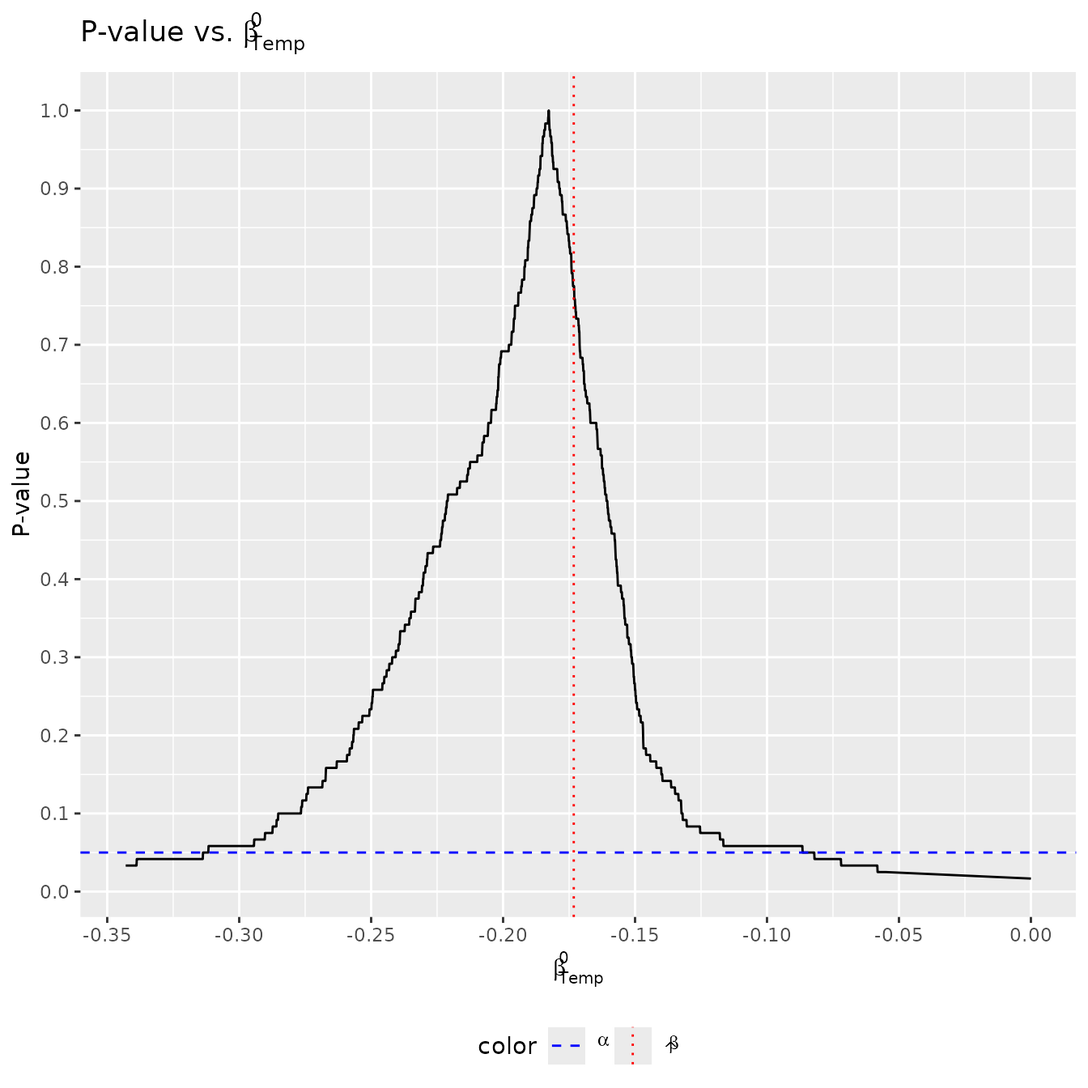
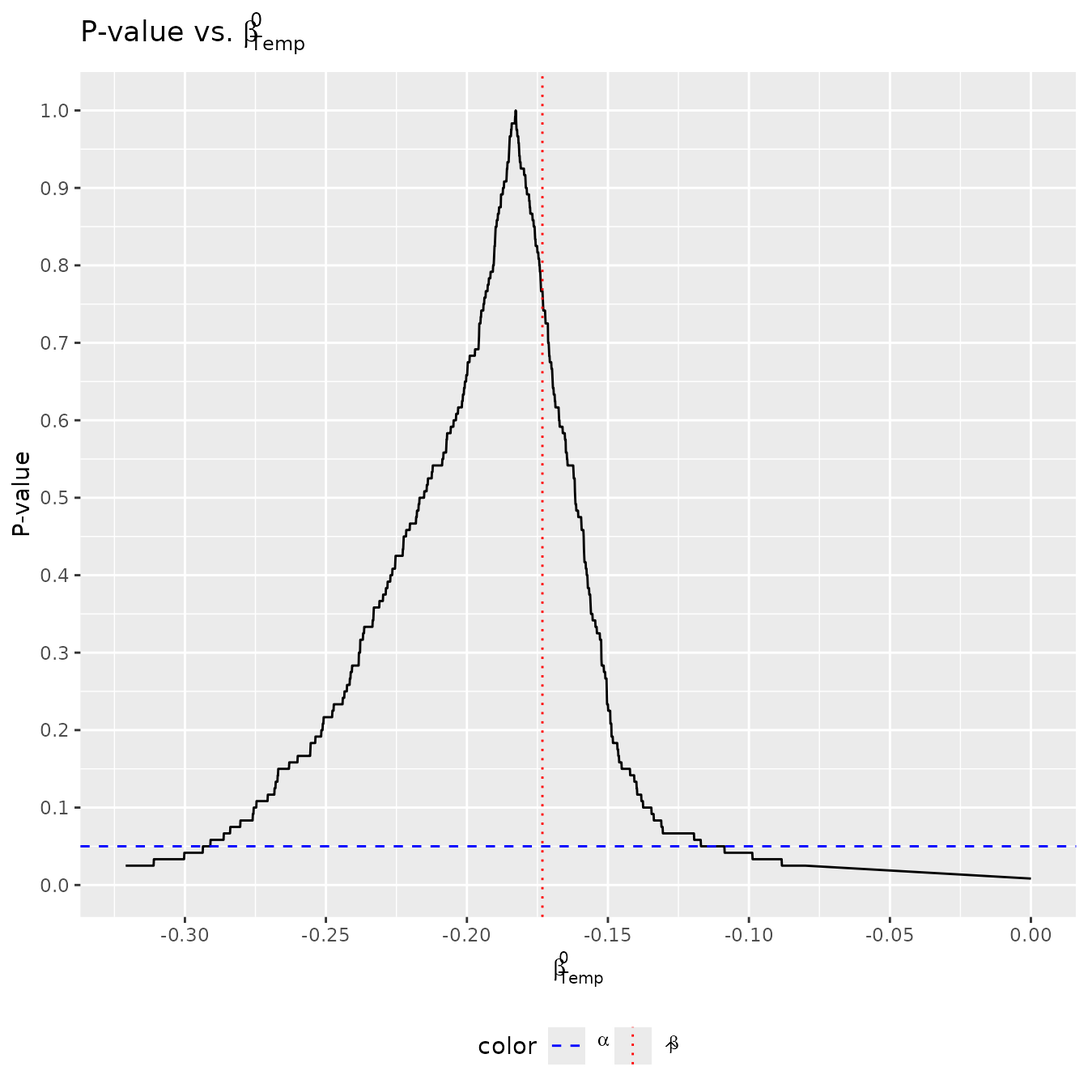
Deploying to gh-pages from @ ian-xu-economics/exactt@83dd52ce7efb5f00a57cc995b3be33a9e709e254 🚀

diff --git a/README.knit.html b/README.knit.html
@@ -1,0 +1,239 @@
+<!DOCTYPE html>
+<!-- Generated by pkgdown: do not edit by hand --><html lang="en"><head><meta http-equiv="Content-Type" content="text/html; charset=UTF-8"><meta charset="utf-8"><meta http-equiv="X-UA-Compatible" content="IE=edge"><meta name="viewport" content="width=device-width, initial-scale=1.0"><title>exactt  • exactt</title><!-- jquery --><script src="https://cdnjs.cloudflare.com/ajax/libs/jquery/3.7.1/jquery.min.js" integrity="sha512-v2CJ7UaYy4JwqLDIrZUI/4hqeoQieOmAZNXBeQyjo21dadnwR+8ZaIJVT8EE2iyI61OV8e6M8PP2/4hpQINQ/g==" crossorigin="anonymous" referrerpolicy="no-referrer"></script><!-- Bootstrap --><link rel="stylesheet" href="https://cdnjs.cloudflare.com/ajax/libs/twitter-bootstrap/3.4.1/css/bootstrap.min.css" integrity="sha256-bZLfwXAP04zRMK2BjiO8iu9pf4FbLqX6zitd+tIvLhE=" crossorigin="anonymous"><script src="https://cdnjs.cloudflare.com/ajax/libs/twitter-bootstrap/3.4.1/js/bootstrap.min.js" integrity="sha256-nuL8/2cJ5NDSSwnKD8VqreErSWHtnEP9E7AySL+1ev4=" crossorigin="anonymous"></script><!-- bootstrap-toc --><link rel="stylesheet" href="bootstrap-toc.css"><script src="bootstrap-toc.js"></script><!-- Font Awesome icons --><link rel="stylesheet" href="https://cdnjs.cloudflare.com/ajax/libs/font-awesome/5.12.1/css/all.min.css" integrity="sha256-mmgLkCYLUQbXn0B1SRqzHar6dCnv9oZFPEC1g1cwlkk=" crossorigin="anonymous"><link rel="stylesheet" href="https://cdnjs.cloudflare.com/ajax/libs/font-awesome/5.12.1/css/v4-shims.min.css" integrity="sha256-wZjR52fzng1pJHwx4aV2AO3yyTOXrcDW7jBpJtTwVxw=" crossorigin="anonymous"><!-- clipboard.js --><script src="https://cdnjs.cloudflare.com/ajax/libs/clipboard.js/2.0.6/clipboard.min.js" integrity="sha256-inc5kl9MA1hkeYUt+EC3BhlIgyp/2jDIyBLS6k3UxPI=" crossorigin="anonymous"></script><!-- headroom.js --><script src="https://cdnjs.cloudflare.com/ajax/libs/headroom/0.11.0/headroom.min.js" integrity="sha256-AsUX4SJE1+yuDu5+mAVzJbuYNPHj/WroHuZ8Ir/CkE0=" crossorigin="anonymous"></script><script src="https://cdnjs.cloudflare.com/ajax/libs/headroom/0.11.0/jQuery.headroom.min.js" integrity="sha256-ZX/yNShbjqsohH1k95liqY9Gd8uOiE1S4vZc+9KQ1K4=" crossorigin="anonymous"></script><!-- pkgdown --><link href="pkgdown.css" rel="stylesheet"><script src="pkgdown.js"></script><meta property="og:title" content="exactt "><!-- mathjax --><script src="https://cdnjs.cloudflare.com/ajax/libs/mathjax/2.7.5/MathJax.js" integrity="sha256-nvJJv9wWKEm88qvoQl9ekL2J+k/RWIsaSScxxlsrv8k=" crossorigin="anonymous"></script><script src="https://cdnjs.cloudflare.com/ajax/libs/mathjax/2.7.5/config/TeX-AMS-MML_HTMLorMML.js" integrity="sha256-84DKXVJXs0/F8OTMzX4UR909+jtl4G7SPypPavF+GfA=" crossorigin="anonymous"></script><!--[if lt IE 9]>
+<script src="https://oss.maxcdn.com/html5shiv/3.7.3/html5shiv.min.js"></script>
+<script src="https://oss.maxcdn.com/respond/1.4.2/respond.min.js"></script>
+<![endif]--></head><body data-spy="scroll" data-target="#toc">
+    
+
+    <div class="container template-title-body">
+      <header><div class="navbar navbar-default navbar-fixed-top" role="navigation">
+  <div class="container">
+    <div class="navbar-header">
+      <button type="button" class="navbar-toggle collapsed" data-toggle="collapse" data-target="#navbar" aria-expanded="false">
+        <span class="sr-only">Toggle navigation</span>
+        <span class="icon-bar"></span>
+        <span class="icon-bar"></span>
+        <span class="icon-bar"></span>
+      </button>
+      <span class="navbar-brand">
+        <a class="navbar-link" href="index.html">exactt</a>
+        <span class="version label label-default" data-toggle="tooltip" data-placement="bottom" title="">1.1.3</span>
+      </span>
+    </div>
+
+    <div id="navbar" class="navbar-collapse collapse">
+      <ul class="nav navbar-nav"><li>
+  <a href="articles/exactt.html">Get started</a>
+</li>
+<li>
+  <a href="reference/index.html">Reference</a>
+</li>
+      </ul><ul class="nav navbar-nav navbar-right"><li>
+  <a href="https://github.com/ian-xu-economics/exactt/" class="external-link">
+    <span class="fab fa-github fa-lg"></span>
+     
+  </a>
+</li>
+      </ul></div><!--/.nav-collapse -->
+  </div><!--/.container -->
+</div><!--/.navbar -->
+
+      
+
+      </header><div class="row">
+  <div class="contents col-md-9">
+    <div class="page-header">
+      <h1>exactt </h1>
+    </div>
+
+<div id="exactt-" class="section level1">
+
+<!-- badges: start -->
+<p><a href="https://CRAN.R-project.org/package=exactt" class="external-link"><img src="https://www.r-pkg.org/badges/version/exactt" alt="CRAN status"></a> <a href="https://github.com/ian-xu-economics/exactt/actions/workflows/R-CMD-check.yaml" class="external-link"><img src="https://github.com/ian-xu-economics/exactt/actions/workflows/R-CMD-check.yaml/badge.svg" alt="R CMD Check"></a> <a href="https://github.com/ian-xu-economics/exactt/actions/workflows/pkgdown.yaml" class="external-link"><img src="https://github.com/ian-xu-economics/exactt/actions/workflows/pkgdown.yaml/badge.svg" alt="Website"></a> <a href="https://github.com/ian-xu-economics/exactt/actions/workflows/test-coverage.yaml" class="external-link"><img src="https://github.com/ian-xu-economics/exactt/actions/workflows/test-coverage.yaml/badge.svg" alt="Test coverage"></a> <a href="https://codecov.io/gh/ian-xu-economics/exactt" class="external-link"><img src="https://codecov.io/gh/ian-xu-economics/exactt/branch/main/graph/badge.svg" alt="codecov"></a> <a href="https://choosealicense.com/licenses/gpl-2.0/" class="external-link"><img src="https://img.shields.io/badge/License-GPL%20%28%3E%3D%202%29-blue.svg" alt="License: GPL (&gt;= 2)"></a> <!-- badges: end --></p>
+<div class="section level2">
+<h2 id="introduction">Introduction<a class="anchor" aria-label="anchor" href="#introduction"></a></h2>
+<p>The <code>exactt</code> package computes a <span class="math inline">(1−<em>α</em>)%</span> confidence interval for coefficients in a linear model using the method described in Pouliot (2023).</p>
+</div>
+<div class="section level2">
+<h2 id="installation">Installation<a class="anchor" aria-label="anchor" href="#installation"></a></h2>
+<p>The <code>exactt</code> package is hosted on GitHub at <a href="https://github.com/ian-xu-economics/exactt/" class="external-link uri">https://github.com/ian-xu-economics/exactt/</a>. It can be installed using the <code>remotes::install_github()</code> function:</p>
+<div class="sourceCode" id="cb1"><pre class="downlit sourceCode r">
+<code class="sourceCode R"><span><span class="co"># install.packages("remotes")</span></span>
+<span><span class="fu">remotes</span><span class="fu">::</span><span class="fu">install_github</span><span class="op">(</span><span class="st">"ian-xu-economics/exactt"</span><span class="op">)</span></span></code></pre></div>
+</div>
+<div class="section level2">
+<h2 id="attribution">Attribution<a class="anchor" aria-label="anchor" href="#attribution"></a></h2>
+<p>To cite the <code>exactt</code> package in publications, use the <code><a href="https://rdrr.io/r/utils/citation.html" class="external-link">citation()</a></code> function, which provides both the text version and the BibTeX entry for referencing:</p>
+<div class="sourceCode" id="cb2"><pre class="downlit sourceCode r">
+<code class="sourceCode R"><span><span class="fu"><a href="https://rdrr.io/r/utils/citation.html" class="external-link">citation</a></span><span class="op">(</span><span class="st">"exactt"</span><span class="op">)</span></span></code></pre></div>
+</div>
+<div class="section level2">
+<h2 id="using-exactt">Using <code>exactt</code>
+<a class="anchor" aria-label="anchor" href="#using-exactt"></a></h2>
+<p>After installing <code>exactt</code>, we can attach the package to our session using the base <code><a href="https://rdrr.io/r/base/library.html" class="external-link">library()</a></code> function:</p>
+<div class="sourceCode" id="cb3"><pre class="downlit sourceCode r">
+<code class="sourceCode R"><span><span class="kw"><a href="https://rdrr.io/r/base/library.html" class="external-link">library</a></span><span class="op">(</span><span class="st"><a href="https://github.com/ian-xu-economics/exactt" class="external-link">"exactt"</a></span><span class="op">)</span></span>
+<span><span class="co">#&gt; Package 'exactt' | Version 1.1.3</span></span></code></pre></div>
+</div>
+<div class="section level2">
+<h2 id="example-usage">Example Usage<a class="anchor" aria-label="anchor" href="#example-usage"></a></h2>
+<p>To compute the <span class="math inline">(1−<em>α</em>)%</span> confidence interval, use the <code><a href="reference/exactt.html">exactt()</a></code> function. Here’s an example using daily air quality measurements in New York found in <code><a href="https://rdrr.io/r/datasets/airquality.html" class="external-link">datasets::airquality</a></code>. We’ll investigate the relationship between temperature (degrees F) and month (1–12) on wind (mph).</p>
+<div class="sourceCode" id="cb4"><pre class="downlit sourceCode r">
+<code class="sourceCode R"><span><span class="fu"><a href="https://rdrr.io/r/base/summary.html" class="external-link">summary</a></span><span class="op">(</span><span class="fu">datasets</span><span class="fu">::</span><span class="va"><a href="https://rdrr.io/r/datasets/airquality.html" class="external-link">airquality</a></span><span class="op">[</span><span class="fu"><a href="https://rdrr.io/r/base/c.html" class="external-link">c</a></span><span class="op">(</span><span class="st">"Wind"</span>, <span class="st">"Temp"</span>, <span class="st">"Month"</span><span class="op">)</span><span class="op">]</span><span class="op">)</span></span>
+<span><span class="co">#&gt;       Wind             Temp           Month      </span></span>
+<span><span class="co">#&gt;  Min.   : 1.700   Min.   :56.00   Min.   :5.000  </span></span>
+<span><span class="co">#&gt;  1st Qu.: 7.400   1st Qu.:72.00   1st Qu.:6.000  </span></span>
+<span><span class="co">#&gt;  Median : 9.700   Median :79.00   Median :7.000  </span></span>
+<span><span class="co">#&gt;  Mean   : 9.958   Mean   :77.88   Mean   :6.993  </span></span>
+<span><span class="co">#&gt;  3rd Qu.:11.500   3rd Qu.:85.00   3rd Qu.:8.000  </span></span>
+<span><span class="co">#&gt;  Max.   :20.700   Max.   :97.00   Max.   :9.000</span></span></code></pre></div>
+<p>Suppose our model is <span class="math display"><em>W</em><em>i</em><em>n</em><em>d</em><sub><em>i</em></sub> = <em>β</em><sub>0</sub> + <em>β</em><sub><em>T</em><em>e</em><em>m</em><em>p</em></sub> × <em>T</em><em>e</em><em>m</em><em>p</em><sub><em>i</em></sub> + <em>β</em><sub><em>M</em><em>o</em><em>n</em><em>t</em><em>h</em></sub> × <em>M</em><em>o</em><em>n</em><em>t</em><em>h</em><sub><em>i</em></sub> + <em>ε</em><sub><em>i</em></sub>.</span> We can create a <span class="math inline">(1−<em>α</em>)%</span> confidence interval by plugging in standard formula notation into <code><a href="reference/exactt.html">exactt()</a></code>. If we don’t specify any additional parameters, then by default:</p>
+<ul><li>The number of blocks used equals 5 (<code>nBlocks = 5</code>).</li>
+<li>The confidence interval is constructed for all variables (<code>variables = NULL</code>).</li>
+<li>The number of permutations is equal to (<code>nPerms = factorial(nBlocks)</code>).</li>
+<li>The level of significance equals 0.05 (<code>alpha = 0.05</code>).</li>
+<li>The test statistics are studentized (<code>studentize = TRUE</code>).</li>
+<li>The ordering of the data is not permuted (<code>permutation = NULL</code>).</li>
+<li>The ordering of the data is not optimized (<code>optimize = FALSE</code>).</li>
+</ul><div class="sourceCode" id="cb5"><pre class="downlit sourceCode r">
+<code class="sourceCode R"><span><span class="va">exactt1</span> <span class="op">&lt;-</span> <span class="fu"><a href="reference/exactt.html">exactt</a></span><span class="op">(</span><span class="va">Wind</span> <span class="op">~</span> <span class="va">Temp</span> <span class="op">+</span> <span class="va">Month</span>,</span>
+<span>                  data <span class="op">=</span> <span class="fu">datasets</span><span class="fu">::</span><span class="va"><a href="https://rdrr.io/r/datasets/airquality.html" class="external-link">airquality</a></span><span class="op">)</span></span>
+<span><span class="va">exactt1</span></span>
+<span><span class="co">#&gt; </span></span>
+<span><span class="co">#&gt; Call:</span></span>
+<span><span class="co">#&gt; exactt(model = Wind ~ Temp + Month, data = datasets::airquality)</span></span>
+<span><span class="co">#&gt; </span></span>
+<span><span class="co">#&gt; </span></span>
+<span><span class="co">#&gt; Summary:</span></span>
+<span><span class="co">#&gt;        Estimate  Pr(&gt;|t|)   2.5% W  97.5% W     2.5%    97.5%</span></span>
+<span><span class="co">#&gt; Temp   -0.17320   0.01667  -0.3137  -0.0821  -0.3137  -0.0821</span></span>
+<span><span class="co">#&gt; Month   0.04382   0.99170  -4.9520   3.2810  -4.9520   3.2810</span></span></code></pre></div>
+</div>
+<div class="section level2">
+<h2 id="visualization-of-results">Visualization of Results<a class="anchor" aria-label="anchor" href="#visualization-of-results"></a></h2>
+<p>If <strong>tidyverse</strong> and <strong>latex2exp</strong> are installed, you can visualize the results by plotting the p-value against <span class="math inline"><em>β</em><sup>0</sup></span> using the <code><a href="reference/exacttPlot.html">exacttPlot()</a></code> function:</p>
+<div class="sourceCode" id="cb6"><pre class="downlit sourceCode r">
+<code class="sourceCode R"><span><span class="fu"><a href="reference/exacttPlot.html">exacttPlot</a></span><span class="op">(</span><span class="va">exactt1</span><span class="op">)</span></span>
+<span><span class="co">#&gt; [[1]]</span></span></code></pre></div>
+<p><img src="reference/figures/unnamed-chunk-5-1.png" width="100%" style="display: block; margin: auto;"></p>
+<pre><code><span><span class="co">#&gt; </span></span>
+<span><span class="co">#&gt; [[2]]</span></span></code></pre>
+<p><img src="reference/figures/unnamed-chunk-5-2.png" width="100%" style="display: block; margin: auto;"></p>
+</div>
+<div class="section level2">
+<h2 id="focusing-on-specific-variables">Focusing on Specific Variables<a class="anchor" aria-label="anchor" href="#focusing-on-specific-variables"></a></h2>
+<p>To focus on specific coefficients, set the <code>variables</code> parameter. The number entered corresponds to the index of the regressors in the model (note that the intercept is never counted). For example. set <code>variables = 1</code> for <code>Temp</code>, and set <code>variables = 2</code> for <code>Month</code>.</p>
+<div class="sourceCode" id="cb8"><pre class="downlit sourceCode r">
+<code class="sourceCode R"><span><span class="va">exactt2</span> <span class="op">&lt;-</span> <span class="fu"><a href="reference/exactt.html">exactt</a></span><span class="op">(</span><span class="va">Wind</span> <span class="op">~</span> <span class="va">Temp</span> <span class="op">+</span> <span class="va">Month</span>,</span>
+<span>                  data <span class="op">=</span> <span class="fu">datasets</span><span class="fu">::</span><span class="va"><a href="https://rdrr.io/r/datasets/airquality.html" class="external-link">airquality</a></span>,</span>
+<span>                  variables <span class="op">=</span> <span class="fl">1</span><span class="op">)</span></span>
+<span></span>
+<span><span class="va">exactt2</span></span>
+<span><span class="co">#&gt; </span></span>
+<span><span class="co">#&gt; Call:</span></span>
+<span><span class="co">#&gt; exactt(model = Wind ~ Temp + Month, data = datasets::airquality, </span></span>
+<span><span class="co">#&gt;     variables = 1)</span></span>
+<span><span class="co">#&gt; </span></span>
+<span><span class="co">#&gt; </span></span>
+<span><span class="co">#&gt; Summary:</span></span>
+<span><span class="co">#&gt;       Estimate  Pr(&gt;|t|)   2.5% W  97.5% W     2.5%    97.5%</span></span>
+<span><span class="co">#&gt; Temp   -0.1732   0.01667  -0.3137  -0.0821  -0.3137  -0.0821</span></span></code></pre></div>
+<p>This creates a 95% confidence interval for <code>Temp</code> only. It is equivalent to the case where <code>variables = NULL</code> (all variables are of interest) because these confidence intervals are marginally valid.</p>
+</div>
+<div class="section level2">
+<h2 id="model-flexibility">Model Flexibility<a class="anchor" aria-label="anchor" href="#model-flexibility"></a></h2>
+<p>The <code><a href="reference/exactt.html">exactt()</a></code> function is designed to allow easy modification of your model to fit various analytical needs. For instance, you can treat a variable as categorical, include polynomial terms, or apply other transformations directly within the model formula. This flexibility helps tailor the analysis to specific research questions without needing pre-transformed data. To illustrate, consider treating <code>Month</code> as a categorical variable to explore its discrete impact on wind speed in a dataset of daily air quality measurements:</p>
+<div class="sourceCode" id="cb9"><pre class="downlit sourceCode r">
+<code class="sourceCode R"><span><span class="va">exactt4</span> <span class="op">&lt;-</span> <span class="fu"><a href="reference/exactt.html">exactt</a></span><span class="op">(</span><span class="va">Wind</span> <span class="op">~</span> <span class="va">Temp</span> <span class="op">+</span> <span class="fu"><a href="https://rdrr.io/r/base/factor.html" class="external-link">as.factor</a></span><span class="op">(</span><span class="va">Month</span><span class="op">)</span>,</span>
+<span>                  data <span class="op">=</span> <span class="fu">datasets</span><span class="fu">::</span><span class="va"><a href="https://rdrr.io/r/datasets/airquality.html" class="external-link">airquality</a></span><span class="op">)</span></span>
+<span></span>
+<span><span class="va">exactt4</span></span>
+<span><span class="co">#&gt; </span></span>
+<span><span class="co">#&gt; Call:</span></span>
+<span><span class="co">#&gt; exactt(model = Wind ~ Temp + as.factor(Month), data = datasets::airquality)</span></span>
+<span><span class="co">#&gt; </span></span>
+<span><span class="co">#&gt; </span></span>
+<span><span class="co">#&gt; Summary:</span></span>
+<span><span class="co">#&gt;                    Estimate  Pr(&gt;|t|)   2.5% W  97.5% W     2.5%    97.5%</span></span>
+<span><span class="co">#&gt; Temp                -0.1953   0.01667  -0.3112  -0.0851  -0.3112  -0.0851</span></span>
+<span><span class="co">#&gt; as.factor(Month)6    1.2900   0.02500     -Inf  -4.3270     -Inf  -4.3270</span></span>
+<span><span class="co">#&gt; as.factor(Month)7    0.9035   0.75830     -Inf      Inf     -Inf      Inf</span></span>
+<span><span class="co">#&gt; as.factor(Month)8    0.7677   0.41670     -Inf      Inf     -Inf      Inf</span></span>
+<span><span class="co">#&gt; as.factor(Month)9    0.7740   0.60830     -Inf      Inf     -Inf      Inf</span></span></code></pre></div>
+<p>The confidence intervals for each category of Month is not informative due to suboptimal data ordering, which can diminish the statistical power of the test. This issue can be addressed by optimizing the data ordering.</p>
+</div>
+<div class="section level2">
+<h2 id="optimizing-data-ordering">Optimizing Data Ordering<a class="anchor" aria-label="anchor" href="#optimizing-data-ordering"></a></h2>
+<p>The confidence intervals produced by the <code><a href="reference/exactt.html">exactt()</a></code> function can change with the ordering of the data. Certain data orderings can enhance statistical power, particularly when the sample size is small and the number of blocks is large. The impact of optimization is even more pronounced when dealing with categorical variables, where appropriate ordering can substantially increase the test’s power.</p>
+<p>The <code><a href="reference/exactt.html">exactt()</a></code> function utilizes a genetic algorithm (provided by the <code><a href="https://github.com/luca-scr/GA/reference/ga.html" class="external-link">GA::ga()</a></code> function) to optimize data ordering. This approach systematically explores various data arrangements to find the one that maximizes statistical power on average.</p>
+</div>
+<div class="section level2">
+<h2 id="enabling-optimization">Enabling Optimization<a class="anchor" aria-label="anchor" href="#enabling-optimization"></a></h2>
+<p>To activate the optimization feature, set <code>optimize = TRUE</code>. Additionally, <code><a href="reference/exactt.html">exactt()</a></code> allows for the specification of various parameters of the <code><a href="https://github.com/luca-scr/GA/reference/ga.html" class="external-link">GA::ga()</a></code> function to tailor the optimization process. For instance, you can limit the number of iterations with <code>maxiter</code> or specify the seed with <code>seed</code> for reproducibility:</p>
+<div class="sourceCode" id="cb10"><pre class="downlit sourceCode r">
+<code class="sourceCode R"><span><span class="va">exactt5</span> <span class="op">&lt;-</span> <span class="fu"><a href="reference/exactt.html">exactt</a></span><span class="op">(</span><span class="va">Wind</span> <span class="op">~</span> <span class="va">Temp</span> <span class="op">+</span> <span class="fu"><a href="https://rdrr.io/r/base/factor.html" class="external-link">as.factor</a></span><span class="op">(</span><span class="va">Month</span><span class="op">)</span>,</span>
+<span>                  data <span class="op">=</span> <span class="fu">datasets</span><span class="fu">::</span><span class="va"><a href="https://rdrr.io/r/datasets/airquality.html" class="external-link">airquality</a></span>,</span>
+<span>                  optimize <span class="op">=</span> <span class="cn">TRUE</span>,</span>
+<span>                  parallel <span class="op">=</span> <span class="cn">TRUE</span>,</span>
+<span>                  maxiter <span class="op">=</span> <span class="fl">5</span>,</span>
+<span>                  seed <span class="op">=</span> <span class="fl">2024</span><span class="op">)</span></span>
+<span></span>
+<span><span class="va">exactt5</span></span>
+<span></span>
+<span><span class="co">#&gt; </span></span>
+<span><span class="co">#&gt; Call:</span></span>
+<span><span class="co">#&gt; exactt(model = Wind ~ Temp + as.factor(Month), data = datasets::airquality, </span></span>
+<span><span class="co">#&gt;     optimize = TRUE, parallel = TRUE, maxiter = 5, seed = 2024)</span></span>
+<span><span class="co">#&gt; </span></span>
+<span><span class="co">#&gt; </span></span>
+<span><span class="co">#&gt; Summary:</span></span>
+<span><span class="co">#&gt;                    Estimate  Pr(&gt;|t|)   2.5% W  97.5% W     2.5%    97.5%</span></span>
+<span><span class="co">#&gt; Temp                -0.1953  0.008333  -0.2673  -0.1127  -0.2673  -0.1127</span></span>
+<span><span class="co">#&gt; as.factor(Month)6    1.2900  0.375000  -1.2300   2.7040  -1.2300   2.7040</span></span>
+<span><span class="co">#&gt; as.factor(Month)7    0.9035  0.533300  -1.4200   2.4800  -1.4200   2.4800</span></span>
+<span><span class="co">#&gt; as.factor(Month)8    0.7677  0.850000  -3.6100   2.1600  -3.6100   2.1600</span></span>
+<span><span class="co">#&gt; as.factor(Month)9    0.7740  0.408300  -2.3220   3.9110  -2.3220   3.9110</span></span></code></pre></div>
+<p>Note that by optimizing the data ordering, <code><a href="reference/exactt.html">exactt()</a></code> is now able to construct informative <span class="math inline">(1−<em>α</em>)%</span> confidence intervals for each category of <code>Month</code>. Furthermore, the detailed results of the optimization process, including the genetic algorithm’s configurations and outcomes for each variable, are stored in the <code>exactt5$gaResults</code>. For instance, to review a summary of the genetic algorithm’s performance for the <code>Temp</code> variable, use:</p>
+<div class="sourceCode" id="cb11"><pre class="downlit sourceCode r">
+<code class="sourceCode R"><span><span class="va">exactt5</span><span class="op">$</span><span class="va">gaResults</span><span class="op">$</span><span class="va">Temp</span><span class="op">@</span><span class="va">summary</span></span>
+<span></span>
+<span><span class="co">#&gt;           max     mean       q3   median       q1      min</span></span>
+<span><span class="co">#&gt; [1,] 3373.156 2466.905 2756.414 2491.108 2149.217 1628.742</span></span>
+<span><span class="co">#&gt; [2,] 3379.420 2557.049 2804.535 2564.529 2331.299 1548.839</span></span>
+<span><span class="co">#&gt; [3,] 3379.420 2550.141 2816.223 2561.671 2278.764 1730.608</span></span>
+<span><span class="co">#&gt; [4,] 3379.420 2555.116 2761.960 2605.983 2245.362 1538.921</span></span>
+<span><span class="co">#&gt; [5,] 3379.420 2574.320 2779.467 2574.736 2277.046 1701.787</span></span></code></pre></div>
+<div class="section level3">
+<h3 id="note-on-optimization-effects">Note on Optimization Effects<a class="anchor" aria-label="anchor" href="#note-on-optimization-effects"></a></h3>
+<p>While optimization generally improves statistical power, it is essential to remember that it increases the average power and may not universally reduce the confidence interval’s width in every instance.</p>
+</div>
+</div>
+</div>
+
+  </div>
+
+  <div class="col-md-3 hidden-xs hidden-sm" id="pkgdown-sidebar">
+    <nav id="toc" data-toggle="toc" class="sticky-top"><h2 data-toc-skip>Contents</h2>
+    </nav></div>
+
+</div>
+
+
+
+      <footer><div class="copyright">
+  <p></p><p>Developed by Guillaume Pouliot, Ian Xu.</p>
+</div>
+
+<div class="pkgdown">
+  <p></p><p>Site built with <a href="https://pkgdown.r-lib.org/" class="external-link">pkgdown</a> 2.0.9.</p>
+</div>
+
+      </footer></div>
+
+  
+
+
+  
+
+  </body></html>
+

diff --git a/articles/exactt.html b/articles/exactt.html
@@ -159,8 +159,8 @@ don’t specify any additional parameters, then by default:</p>
 <span><span class="co">#&gt; </span></span>
 <span><span class="co"><span style="color: #0000BB; font-weight: bold;">#&gt; Summary:</span></span></span>
 <span><span class="co"><span style="color: #0000BB; font-weight: bold;">#&gt; </span>       Estimate  Pr(&gt;|t|)   2.5% W  97.5% W     2.5%    97.5%</span></span>
-<span><span class="co">#&gt; Temp   -0.17320   0.01667  -0.3137  -0.0821  -0.3137  -0.0821</span></span>
-<span><span class="co">#&gt; Month   0.04382   0.99170  -4.9520   3.2810  -4.9520   3.2810</span></span></code></pre></div>
+<span><span class="co">#&gt; Temp   -0.17320  0.008333  -0.2936  -0.1087  -0.2936  -0.1087</span></span>
+<span><span class="co">#&gt; Month   0.04382  0.991700  -3.8580   2.9420  -3.8580   2.9420</span></span></code></pre></div>
 </div>
 <div class="section level2">
 <h2 id="visualization-of-results">Visualization of Results<a class="anchor" aria-label="anchor" href="#visualization-of-results"></a>
@@ -199,7 +199,7 @@ set <code>variables = 1</code> for <code>Temp</code>, and set
 <span><span class="co">#&gt; </span></span>
 <span><span class="co"><span style="color: #0000BB; font-weight: bold;">#&gt; Summary:</span></span></span>
 <span><span class="co"><span style="color: #0000BB; font-weight: bold;">#&gt; </span>      Estimate  Pr(&gt;|t|)   2.5% W  97.5% W     2.5%    97.5%</span></span>
-<span><span class="co">#&gt; Temp   -0.1732   0.01667  -0.3137  -0.0821  -0.3137  -0.0821</span></span></code></pre></div>
+<span><span class="co">#&gt; Temp   -0.1732  0.008333  -0.2936  -0.1087  -0.2936  -0.1087</span></span></code></pre></div>
 <p>This creates a 95% confidence interval for <code>Temp</code> only. It
 is equivalent to the case where <code>variables = NULL</code> (all
 variables are of interest) because these confidence intervals are
@@ -229,11 +229,11 @@ measurements:</p>
 <span><span class="co">#&gt; </span></span>
 <span><span class="co"><span style="color: #0000BB; font-weight: bold;">#&gt; Summary:</span></span></span>
 <span><span class="co"><span style="color: #0000BB; font-weight: bold;">#&gt; </span>                   Estimate  Pr(&gt;|t|)   2.5% W  97.5% W     2.5%    97.5%</span></span>
-<span><span class="co">#&gt; Temp                -0.1953   0.01667  -0.3112  -0.0851  -0.3112  -0.0851</span></span>
-<span><span class="co">#&gt; as.factor(Month)6    1.2900   0.89170     -Inf      Inf     -Inf      Inf</span></span>
-<span><span class="co">#&gt; as.factor(Month)7    0.9035   0.38330     -Inf      Inf     -Inf      Inf</span></span>
-<span><span class="co">#&gt; as.factor(Month)8    0.7677   0.45000     -Inf  11.2400     -Inf  11.2400</span></span>
-<span><span class="co">#&gt; as.factor(Month)9    0.7740   0.61670     -Inf      Inf     -Inf      Inf</span></span></code></pre></div>
+<span><span class="co">#&gt; Temp                -0.1953  0.008333  -0.2939  -0.1094  -0.2939  -0.1094</span></span>
+<span><span class="co">#&gt; as.factor(Month)6    1.2900  0.975000     -Inf      Inf     -Inf      Inf</span></span>
+<span><span class="co">#&gt; as.factor(Month)7    0.9035  0.283300     -Inf      Inf     -Inf      Inf</span></span>
+<span><span class="co">#&gt; as.factor(Month)8    0.7677  0.391700     -Inf  10.5800     -Inf  10.5800</span></span>
+<span><span class="co">#&gt; as.factor(Month)9    0.7740  0.608300     -Inf      Inf     -Inf      Inf</span></span></code></pre></div>
 <p>The confidence intervals for each category of Month is not
 informative due to suboptimal data ordering, which can diminish the
 statistical power of the test. This issue can be addressed by optimizing
